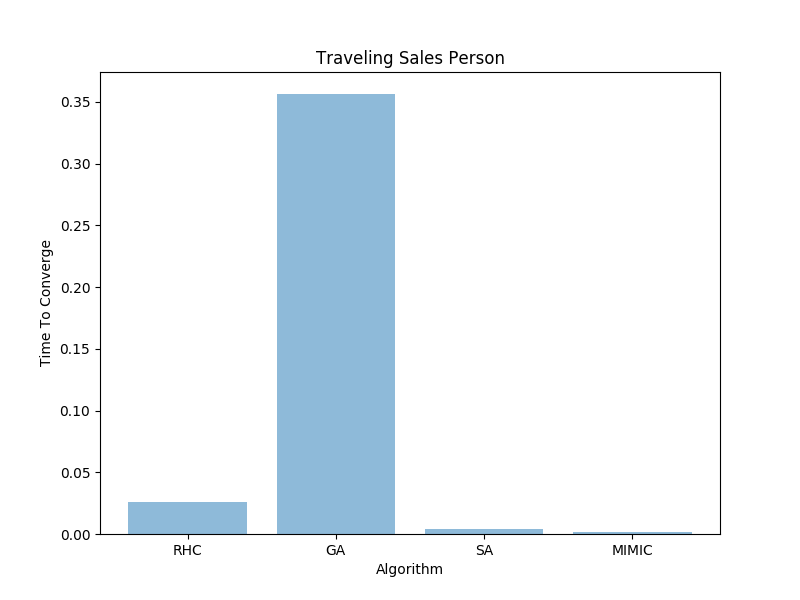
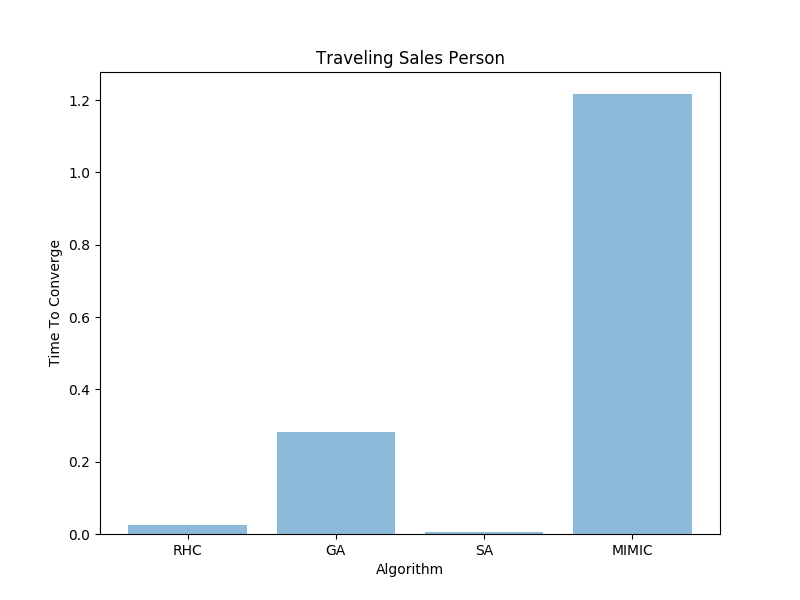
Final code / experiments

diff --git a/Assignment 2/runexperiment_n_queens.py b/Assignment 2/runexperiment_n_queens.py
@@ -1,0 +1,44 @@
+# Andrew Nowotarski
+# anowotarski3
+# CS 7641 ML Spring 2020
+# Assignment 2: Randomized Optimization
+
+# Packages for matrix manipulation. 
+import mlrose_hiive as mlrose
+import numpy as np
+
+# Packages for metrics and plotting.
+import plotting
+
+# Instantiate a Queens problem.
+fitness = mlrose.Queens()
+problem_fit = mlrose.DiscreteOpt(length = 15, fitness_fn= fitness)
+
+# Solve the problem with genetic algorithm
+plotting.plot_optimization_problem_fitness(problem_fit, 100, 2, 'N-Queens')
+
+# CODE SOURCED FROM
+# https://mlrose.readthedocs.io/en/stable/source/tutorial1.html
+
+# Define alternative N-Queens fitness function for maximization problem.
+def queens_max(state):
+
+    # Initialize counter
+    fitness_cnt = 0
+
+    # For all pairs of queens
+    for i in range(len(state) - 1):
+        for j in range(i + 1, len(state)):
+
+            # Check for horizontal, diagonal-up and diagonal-down attacks
+            if (state[j] != state[i]) \
+                and (state[j] != state[i] + (j - i)) \
+                and (state[j] != state[i] - (j - i)):
+
+                # If no attacks, then increment counter
+                fitness_cnt += 1
+
+    return fitness_cnt
+
+# Initialize custom fitness function object.
+cust_fitness = mlrose.CustomFitness(queens_max)

diff --git a/Assignment 2/plotting.py b/Assignment 2/plotting.py
@@ -246,7 +246,7 @@ def plot_optimization_problem_fitness(fitness_function, iterations, random_state
     ga_elapsed = timeit.default_timer() - start_ga
 
     start_mimic = timeit.default_timer()
-    mimic_best_state, mimic_best_fitness, mimic_fitness_curve =  mlrose.random_hill_climb(fitness_function, max_iters=iterations, random_state= random_state, curve=True)
+    mimic_best_state, mimic_best_fitness, mimic_fitness_curve =  mlrose.mimic(fitness_function, max_iters=iterations, random_state= random_state, curve=True)
     mimic_elapsed = timeit.default_timer() - start_mimic
 
     # Fill in arrays.
@@ -263,7 +263,7 @@ def plot_optimization_problem_fitness(fitness_function, iterations, random_state
     mimic_fitness_curve_bf[:mimic_fitness_curve.shape[0]] = mimic_fitness_curve
 
     # Plot the convergance times.
-    plot_ro_algo_times(rhc_elapsed, ga_elapsed, sa_elapsed, mimic_elapsed, 'Traveling Sales Person')
+    plot_ro_algo_times(rhc_elapsed, ga_elapsed, sa_elapsed, mimic_elapsed, title)
 
     # Plot the fitness over iterations.
     fig = plt.figure(figsize=(8,6))

diff --git a/Assignment 2/runexperiment_four_peaks.py b/Assignment 2/runexperiment_four_peaks.py
@@ -1,0 +1,18 @@
+# Andrew Nowotarski
+# anowotarski3
+# CS 7641 ML Spring 2020
+# Assignment 2: Randomized Optimization
+
+# Packages for matrix manipulation. 
+import mlrose_hiive as mlrose
+import numpy as np
+
+# Packages for metrics and plotting.
+import plotting
+
+fitness = mlrose.FourPeaks(t_pct=0.15)
+problem_fit = mlrose.DiscreteOpt(length=35, fitness_fn=fitness)
+
+# Solve the problem with genetic algorithm
+plotting.plot_optimization_problem_fitness(problem_fit, 100, 2, 'Four Peaks')
+

diff --git a/Assignment 2/runexperiment_traveling_sales_person.py b/Assignment 2/runexperiment_traveling_sales_person.py
@@ -23,5 +23,5 @@ fitness_coords = mlrose.TravellingSales(coords= coords_list)
 problem_fit = mlrose.TSPOpt(length = 8, fitness_fn= fitness_coords, maximize=False)
 
 # Solve the problem with genetic algorithm
-plotting.plot_optimization_problem_fitness(problem_fit, 100, 2, 'Traveling Sales Person')
+plotting.plot_optimization_problem_fitness(problem_fit, 100, 44, 'Traveling Sales Person')
 
